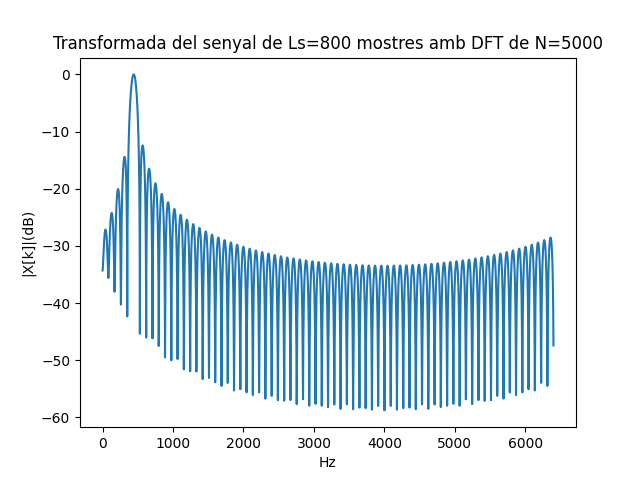
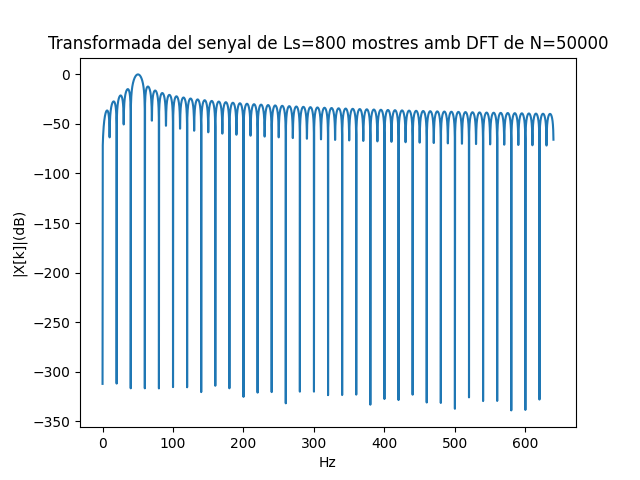
ex3corregit

diff --git a/gec_codi.py b/gec_codi.py
@@ -145,9 +145,9 @@ import sounddevice as sd      # Importem el mòdul sounddevice per accedir a la 
 sd.play(z, fm)                # Reproducció d'àudio
 
 from numpy.fft import fft     # Importem la funció fft
-N=5000                        # Dimensió de la transformada discreta
+N=50000                        # Dimensió de la transformada discreta
 Z=fft(z[0 : Lsz], N)       
-Z_dB = 20*np.log10(np.abs(X)/max(np.abs(X)))
+Z_dB = 20*np.log10(np.abs(Z)/max(np.abs(Z)))
 k=np.arange(N)                        # Vector amb els valors 0≤  k<N
 fk =(k/N)*fm
 plt.figure(8)                         # Nova figura          

diff --git a/README.md b/README.md
@@ -168,7 +168,7 @@ Proves i exercicis a fer i entregar
 3. **Modifica el programa per representar el mòdul de la Transformada de Fourier en dB i l'eix d'abscisses en el marge de
     $0$ a $f_m/2$ en Hz.**
     
-    Per aquest exercici es fa servir el to de 50 Hz de l'exercici 1:
+    Per aquest exercici es fa servir el to de 50 Hz de l'exercici 1, canviant la dimensió de la trandformada discreta a N=50000, per poder visualitzar adequadament la gràfica:
     ```python
         T= 2.5                               # Durada de T segons
         fm=8000                              # Freqüència de mostratge en Hz
@@ -188,9 +188,9 @@ Proves i exercicis a fer i entregar
         sd.play(z, fm)                # Reproducció d'àudio
 
         from numpy.fft import fft     # Importem la funció fft
-        N=5000                        # Dimensió de la transformada discreta
+        N=50000                      # Dimensió de la transformada discreta
         Z=fft(z[0 : Lsz], N)       
-        Z_dB = 20*np.log10(np.abs(X)/max(np.abs(X)))
+        Z_dB = 20*np.log10(np.abs(Z)/max(np.abs(Z)))
         k=np.arange(N)                        # Vector amb els valors 0≤  k<N
         fk =(k/N)*fm
         plt.figure(8)                         # Nova figura          
